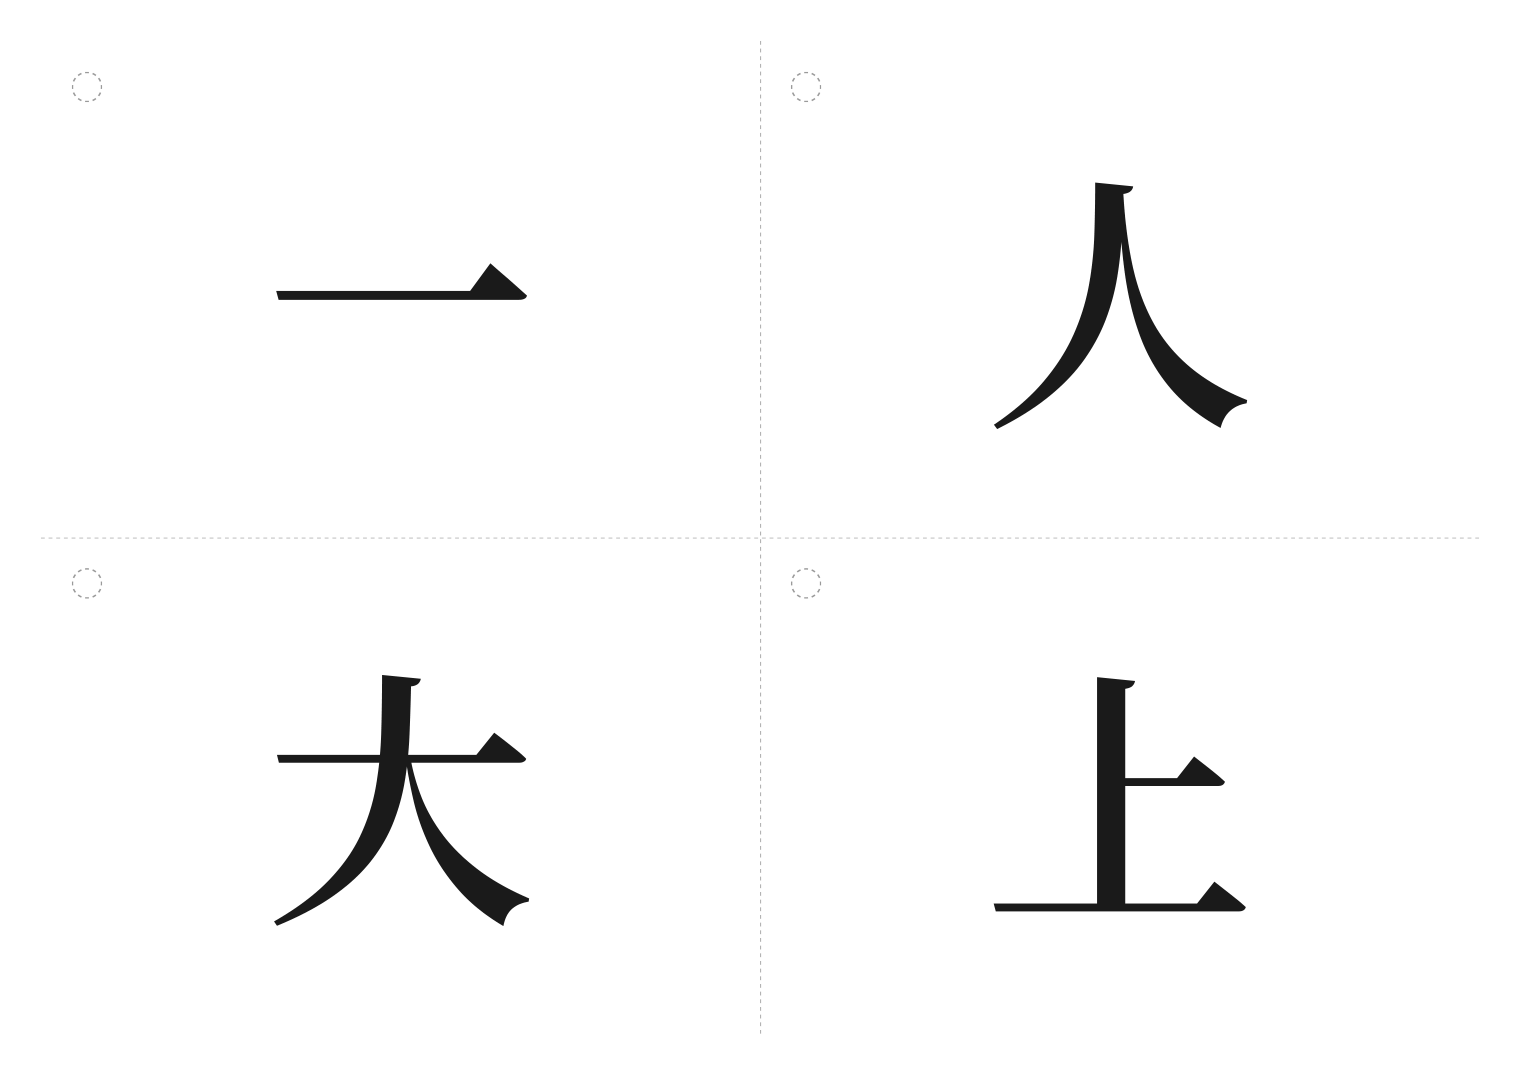
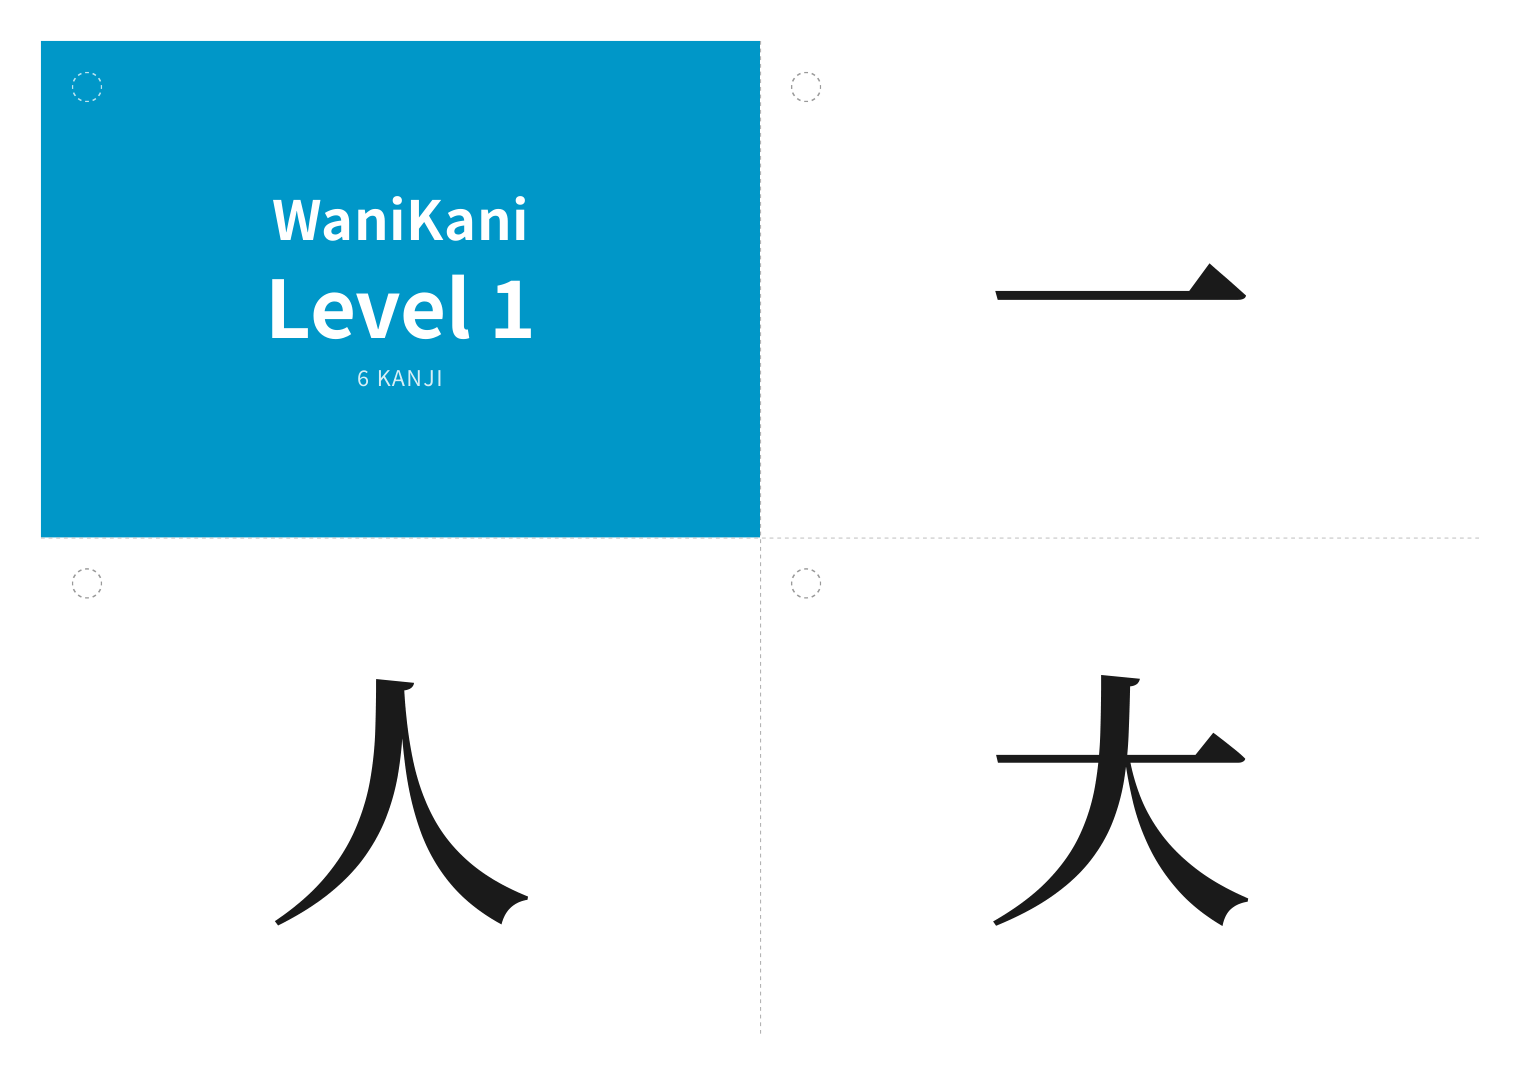
Deckkarte mit Titel/Level (Front) und Kanji-Übersicht (Rückseite)
- Neue Dataclass CoverCard + build_cover(): sammelt Kanji + primäre Bedeutung
- main() stellt die Deckkarte als erste Karte voran (abschaltbar via --no-cover)
- Vorderseite: WaniKani-blaues Titelfeld „WaniKani / Level N / N Kanji"
- Rückseite: „Level N · Übersicht" mit allen Kanji + Bedeutung in zwei Spalten
- Deckkarte läuft durch dieselbe Paginierung/Spiegelung → korrekt registriert,
  bekommt ebenfalls den Lochbereich (kommt mit auf den Ring)
- Test für build_cover ergänzt (20 Tests grün); README + Optionen aktualisiert

Claude-Session: https://claude.ai/code/session_01RrrcutmiVCxLkx2eMuKrr7

diff --git a/kanji_cards.py b/kanji_cards.py
@@ -78,6 +78,15 @@ class Card:
     sentence_en: str | None = None
 
 
+@dataclass
+class CoverCard:
+    """Deckkarte des Stapels: vorne Titel/Level, hinten die Kanji-Übersicht."""
+
+    title: str
+    subtitle: str
+    entries: list[tuple[str, str]] = field(default_factory=list)  # (kanji, Bedeutung)
+
+
 # --------------------------------------------------------------------------- #
 # Hilfsfunktionen
 # --------------------------------------------------------------------------- #
@@ -322,15 +331,29 @@ def build_cards(
     return [build_card(k, vocab_map) for k in kanji_list]
 
 
+def build_cover(level: int | str, cards: Sequence[Card]) -> CoverCard:
+    """Deckkarte aus den Karten des Stapels bauen (Kanji + primäre Bedeutung)."""
+    entries = [
+        (c.kanji, c.meanings[0] if c.meanings else "")
+        for c in cards
+        if c.kanji
+    ]
+    return CoverCard(
+        title="WaniKani",
+        subtitle=f"Level {level}",
+        entries=entries,
+    )
+
+
 # --------------------------------------------------------------------------- #
 # Layout / Paginierung / Duplex
 # --------------------------------------------------------------------------- #
 
 def paginate(
-    cards: Sequence[Card | None], per_page: int = 6
-) -> list[list[Card | None]]:
+    cards: Sequence[Card | CoverCard | None], per_page: int = 6
+) -> list[list[Card | CoverCard | None]]:
     """Karten in Seiten à `per_page` aufteilen; letzte Seite mit None auffüllen."""
-    pages: list[list[Card | None]] = []
+    pages: list[list[Card | CoverCard | None]] = []
     for start in range(0, len(cards), per_page):
         chunk: list[Card | None] = list(cards[start : start + per_page])
         while len(chunk) < per_page:
@@ -385,10 +408,19 @@ PAPER_DIMS_MM = {"a4": (210.0, 297.0), "letter": (215.9, 279.4)}
 PAGE_MARGIN_MM = 8.0
 
 
-def _card_to_dict(card: Card | None) -> dict[str, Any] | None:
+def _card_to_dict(card: Card | CoverCard | None) -> dict[str, Any] | None:
     if card is None:
         return None
+    if isinstance(card, CoverCard):
+        return {
+            "type": "cover",
+            "title": card.title,
+            "subtitle": card.subtitle,
+            "count": len(card.entries),
+            "entries": [{"kanji": k, "meaning": m} for k, m in card.entries],
+        }
     return {
+        "type": "kanji",
         "kanji": card.kanji,
         "meanings": card.meanings,
         "onyomi": card.onyomi,
@@ -404,7 +436,7 @@ def _card_to_dict(card: Card | None) -> dict[str, Any] | None:
 
 
 def build_sheets(
-    cards: Sequence[Card | None],
+    cards: Sequence[Card | CoverCard | None],
     *,
     cols: int = 2,
     rows: int = 2,
@@ -421,7 +453,7 @@ def build_sheets(
 
 
 def render_pdf(
-    cards: Sequence[Card | None],
+    cards: Sequence[Card | CoverCard | None],
     output: str | Path,
     *,
     template_dir: Path = DEFAULT_TEMPLATE_DIR,
@@ -563,6 +595,11 @@ def build_parser() -> argparse.ArgumentParser:
         "--no-cut-marks", action="store_true", help="Keine Schnittmarken zeichnen."
     )
     parser.add_argument(
+        "--no-cover",
+        action="store_true",
+        help="Keine Deckkarte (Titel + Kanji-Übersicht) voranstellen.",
+    )
+    parser.add_argument(
         "--sample",
         action="store_true",
         help="Beispieldaten ohne API-Token verwenden (Demo).",
@@ -590,18 +627,24 @@ def main(argv: Sequence[str] | None = None) -> int:
         print("Keine Karten zu erzeugen.", file=sys.stderr)
         return 1
 
+    deck: list[Card | CoverCard] = list(cards)
+    if not args.no_cover:
+        level_label = "1" if args.sample else args.level
+        deck.insert(0, build_cover(level_label, cards))
+
     out = render_pdf(
-        cards,
+        deck,
         args.output,
         kanji_font=Path(args.font),
         duplex=args.duplex,
         paper=args.paper,
         cut_marks=not args.no_cut_marks,
     )
-    n_sheets = ((len(cards) + 3) // 4) * 2
+    n_sheets = ((len(deck) + 3) // 4) * 2
+    cover_note = "" if args.no_cover else " inkl. Deckkarte"
     print(
-        f"{len(cards)} Karten → {out} ({n_sheets} Seiten, 4/Seite, A4 quer, "
-        f"Duplex: {args.duplex}, {args.paper.upper()})."
+        f"{len(deck)} Karten{cover_note} → {out} ({n_sheets} Seiten, 4/Seite, "
+        f"A4 quer, Duplex: {args.duplex}, {args.paper.upper()})."
     )
     return 0
 

diff --git a/tests/test_kanji_cards.py b/tests/test_kanji_cards.py
@@ -10,7 +10,9 @@ sys.path.insert(0, str(Path(__file__).resolve().parent.parent))
 
 from kanji_cards import (  # noqa: E402
     Card,
+    CoverCard,
     build_card,
+    build_cover,
     mirror_backside,
     paginate,
     pick_example_vocab,
@@ -181,6 +183,18 @@ def test_build_card_full():
     assert card.vocab_meaning == "Mountain"
     assert card.sentence_ja == "山に登る。"
     assert card.sentence_en == "Climb a mountain."
+
+
+def test_build_cover_lists_kanji_and_meanings():
+    cards = [
+        Card(kanji="一", meanings=["One", "Primary"]),
+        Card(kanji="人", meanings=["Person"]),
+        Card(kanji="", meanings=["ignored"]),  # ohne Kanji → nicht gelistet
+    ]
+    cover = build_cover(5, cards)
+    assert isinstance(cover, CoverCard)
+    assert cover.subtitle == "Level 5"
+    assert cover.entries == [("一", "One"), ("人", "Person")]
 
 
 def test_build_card_without_vocab_still_builds():

diff --git a/README.md b/README.md
@@ -10,6 +10,9 @@ CLI-Tool (Python 3), das aus einem **WaniKani-Level** doppelseitig bedruckbare
 
 Weitere Eigenschaften:
 
+- **Deckkarte** als erste Karte: vorne „WaniKani – Level N" (+ Kanji-Anzahl),
+  hinten eine Übersicht aller enthaltenen Kanji mit Bedeutung. Abschaltbar mit
+  `--no-cover`.
 - **Nur zwei Schnittkanten** je Blatt: die mittige Kreuzlinie (waagerecht +
   senkrecht). Die Karten stoßen in der Mitte aneinander; die Außenkanten sind
   Blattrand und werden nicht geschnitten.
@@ -85,6 +88,7 @@ python kanji_cards.py --sample          # nutzt fonts/-Demodaten (Level 1)
 | `--font PFAD` | `fonts/NotoSerifJP-SemiBold.ttf` | Schrift für das große Kanji |
 | `--no-cache` | – | API-Cache unter `.cache/` umgehen |
 | `--no-cut-marks` | – | Kreuz-Schnittlinien und Loch-Markierung weglassen |
+| `--no-cover` | – | keine Deckkarte (Titel + Kanji-Übersicht) voranstellen |
 | `--sample` | – | Beispieldaten ohne API-Token verwenden |
 
 ## Drucken